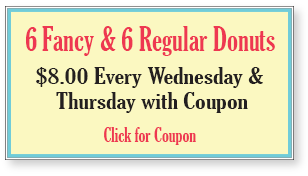
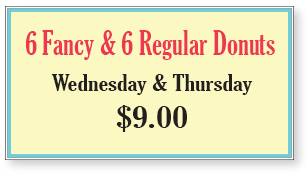
Update specials in sidebar

Changed region(s): [[0.1169, 0.3693, 0.8474, 0.8239], [0.0584, 0.142, 0.9058, 0.3409], [0.5844, 0.142, 0.6136, 0.1705]]

diff --git a/index.html b/index.html
@@ -186,12 +186,12 @@
 				<div class="specials">
 					<h2><img src="images/titles/specials.png" alt="Specials" width="184" height="34"></h2>
 					<p>
-						Monday &amp; Tuesday $5.00 per dozen
+						Monday &amp; Tuesday $6.00 per dozen
 					</p>
 				</div>
-				<!-- <div class="coupon">
-					<a href="reds_coupon-exp_06_30_2015.pdf" target="_coupon"><img src="images/coupon-special.png" alt="6 Fancy & 6 Regular Donuts | $8.00 Every Wednesday & Thursday with Coupon | Click for Coupon"></a>
-				</div> -->
+				<div class="coupon">
+					<img src="images/coupon-special.png" alt="6 Fancy & 6 Regular Donuts Wednesday & Thursday $9.00">
+				</div>
 				<hr>
 				<div class="orders">
 					<h2><img src="images/titles/order-by-phone.png" height="28" width="146" alt="Order by Phone!"></h2>
